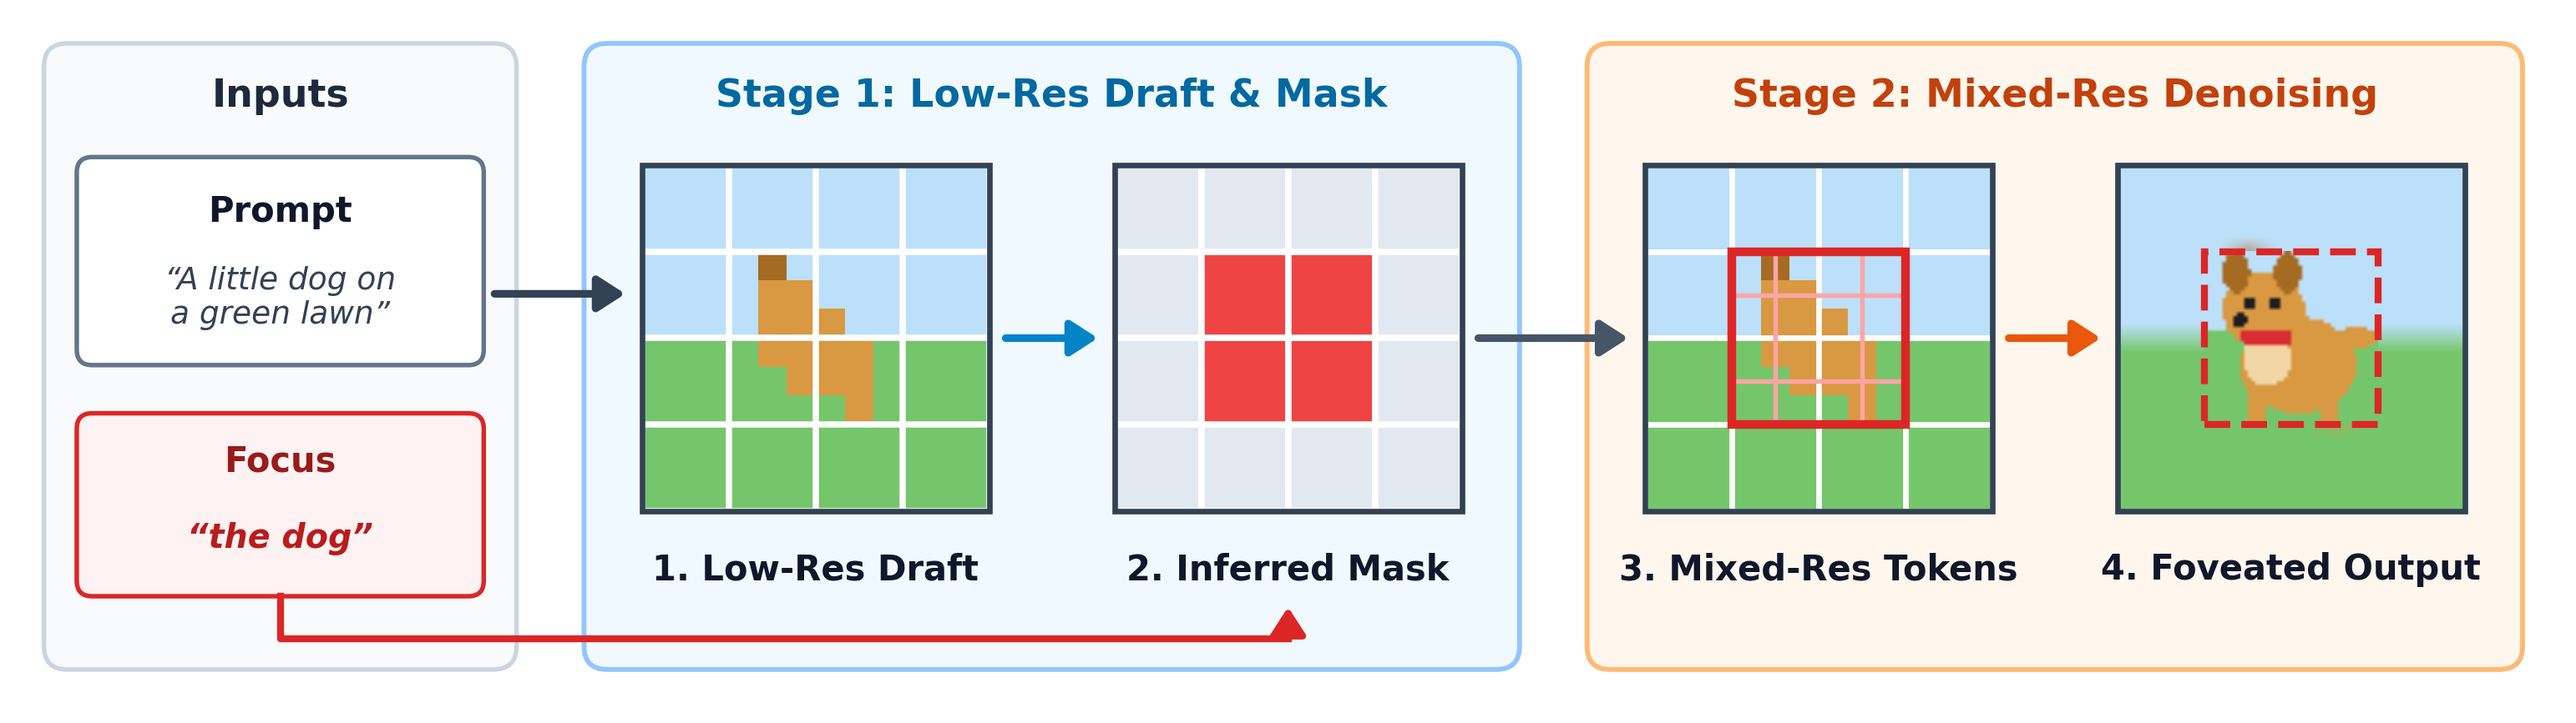
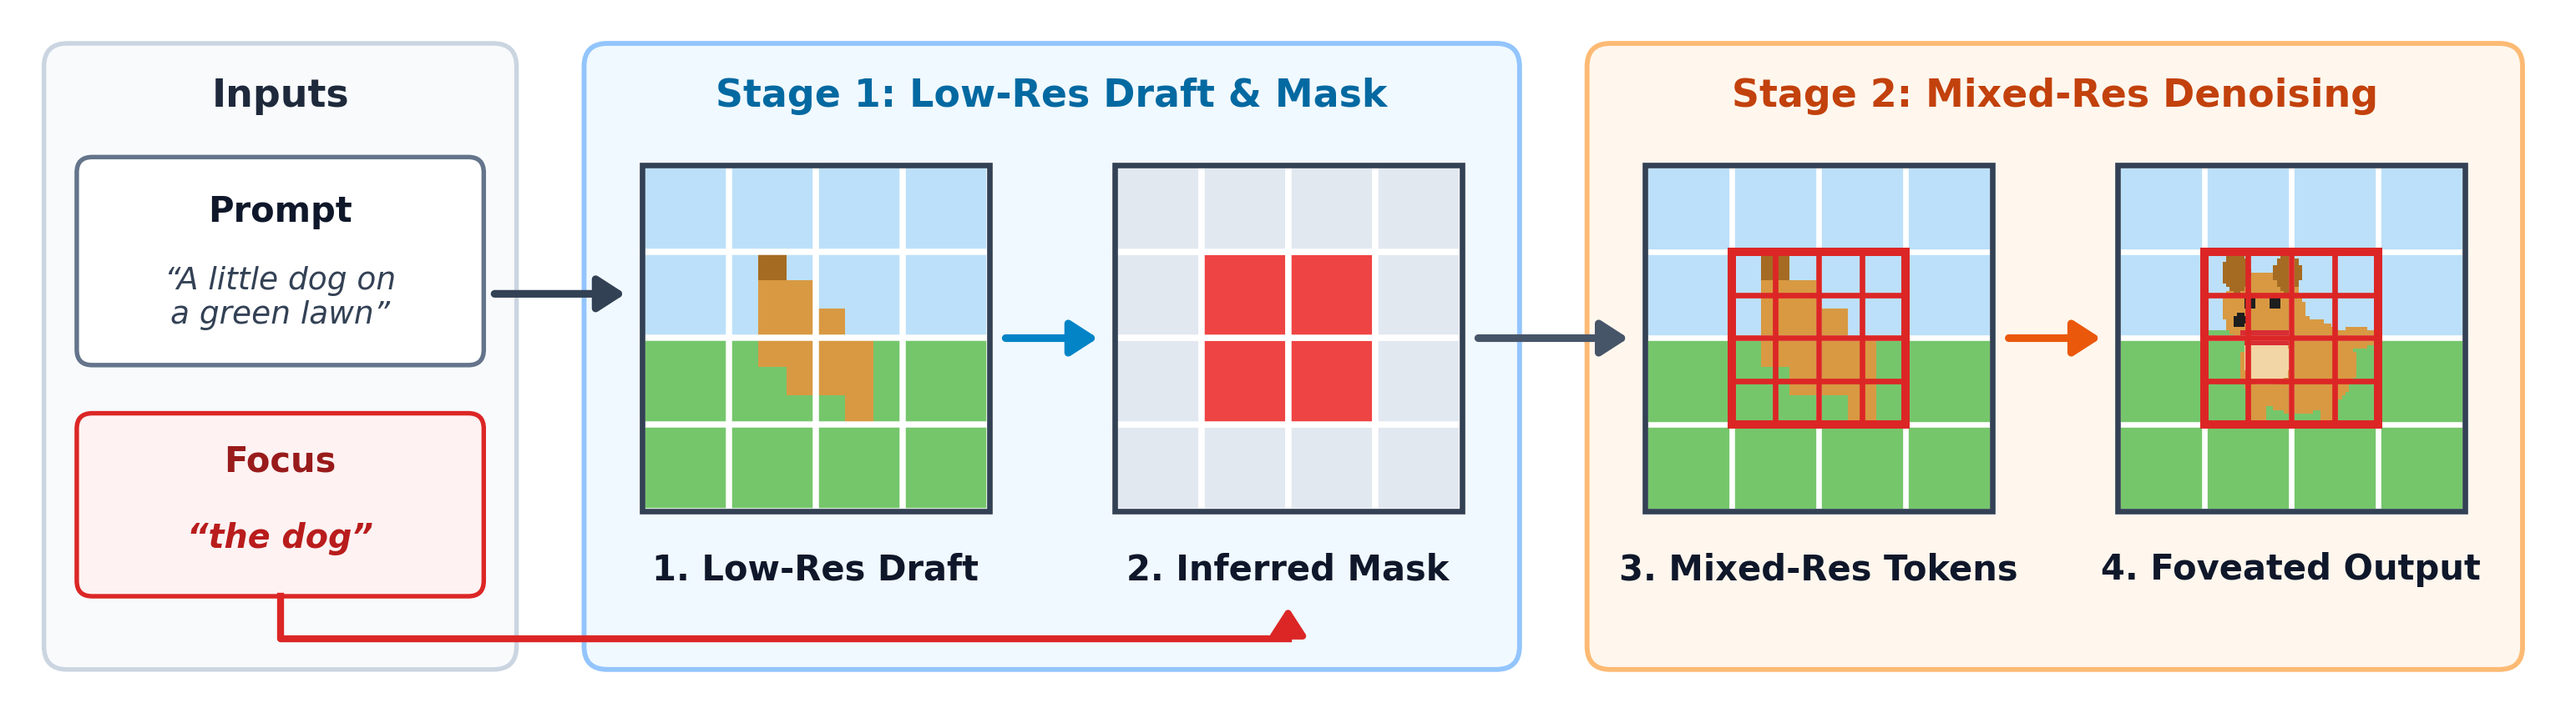
Use red grid lines for HR tokens and retain grid squares in final output

Changed region(s): [[0.8091, 0.3114, 0.9647, 0.6228], [0.6535, 0.3426, 0.7468, 0.5917]]

diff --git a/scripts/generate_method_figure.py b/scripts/generate_method_figure.py
@@ -119,17 +119,16 @@ def draw_grid_image(ax, x0, y0, size, n_blocks=4, mode="draft", zorder=3):
                     color="#FFFFFF", lw=1.6, zorder=zorder + 1)
             ax.plot([x0, x0 + size], [y0 + i * cell, y0 + i * cell],
                     color="#FFFFFF", lw=1.6, zorder=zorder + 1)
+        # Draw all high-res 4x4 grid lines inside the central 2x2 region in red
         sub = cell / 2.0
-        for (r, c) in focus_rc:
-            bx = x0 + c * cell
-            by = y0 + r * cell
-            ax.plot([bx + sub, bx + sub], [by, by + cell],
-                    color="#FCA5A5", lw=1.3, zorder=zorder + 1.5)
-            ax.plot([bx, bx + cell], [by + sub, by + sub],
-                    color="#FCA5A5", lw=1.3, zorder=zorder + 1.5)
+        for j in range(5):
+            ax.plot([x0 + cell + j * sub, x0 + cell + j * sub], [y0 + cell, y0 + 3 * cell],
+                    color="#DC2626", lw=1.6, zorder=zorder + 2)
+            ax.plot([x0 + cell, x0 + 3 * cell], [y0 + cell + j * sub, y0 + cell + j * sub],
+                    color="#DC2626", lw=1.6, zorder=zorder + 2)
         hr_box = patches.Rectangle(
             (x0 + cell, y0 + cell), 2 * cell, 2 * cell,
-            facecolor="none", edgecolor="#DC2626", linewidth=2.5, zorder=zorder + 2
+            facecolor="none", edgecolor="#DC2626", linewidth=2.4, zorder=zorder + 2.5
         )
         ax.add_patch(hr_box)
 
@@ -140,20 +139,30 @@ def draw_grid_image(ax, x0, y0, size, n_blocks=4, mode="draft", zorder=3):
             coarse_img,
             origin="lower",
             extent=[x0, x0 + size, y0, y0 + size],
-            interpolation="bilinear",
+            interpolation="nearest",
             zorder=zorder,
         )
         ax.imshow(
             fine_img[24:72, 24:72],
             origin="lower",
             extent=[x0 + cell, x0 + 3 * cell, y0 + cell, y0 + 3 * cell],
-            interpolation="bilinear",
+            interpolation="nearest",
             zorder=zorder + 0.5,
         )
+        for i in range(n_blocks + 1):
+            ax.plot([x0 + i * cell, x0 + i * cell], [y0, y0 + size],
+                    color="#FFFFFF", lw=1.6, zorder=zorder + 1)
+            ax.plot([x0, x0 + size], [y0 + i * cell, y0 + i * cell],
+                    color="#FFFFFF", lw=1.6, zorder=zorder + 1)
+        sub = cell / 2.0
+        for j in range(5):
+            ax.plot([x0 + cell + j * sub, x0 + cell + j * sub], [y0 + cell, y0 + 3 * cell],
+                    color="#DC2626", lw=1.6, zorder=zorder + 2)
+            ax.plot([x0 + cell, x0 + 3 * cell], [y0 + cell + j * sub, y0 + cell + j * sub],
+                    color="#DC2626", lw=1.6, zorder=zorder + 2)
         hr_box = patches.Rectangle(
             (x0 + cell, y0 + cell), 2 * cell, 2 * cell,
-            facecolor="none", edgecolor="#DC2626", linewidth=2.0,
-            linestyle="--", zorder=zorder + 2
+            facecolor="none", edgecolor="#DC2626", linewidth=2.4, zorder=zorder + 2.5
         )
         ax.add_patch(hr_box)
 
